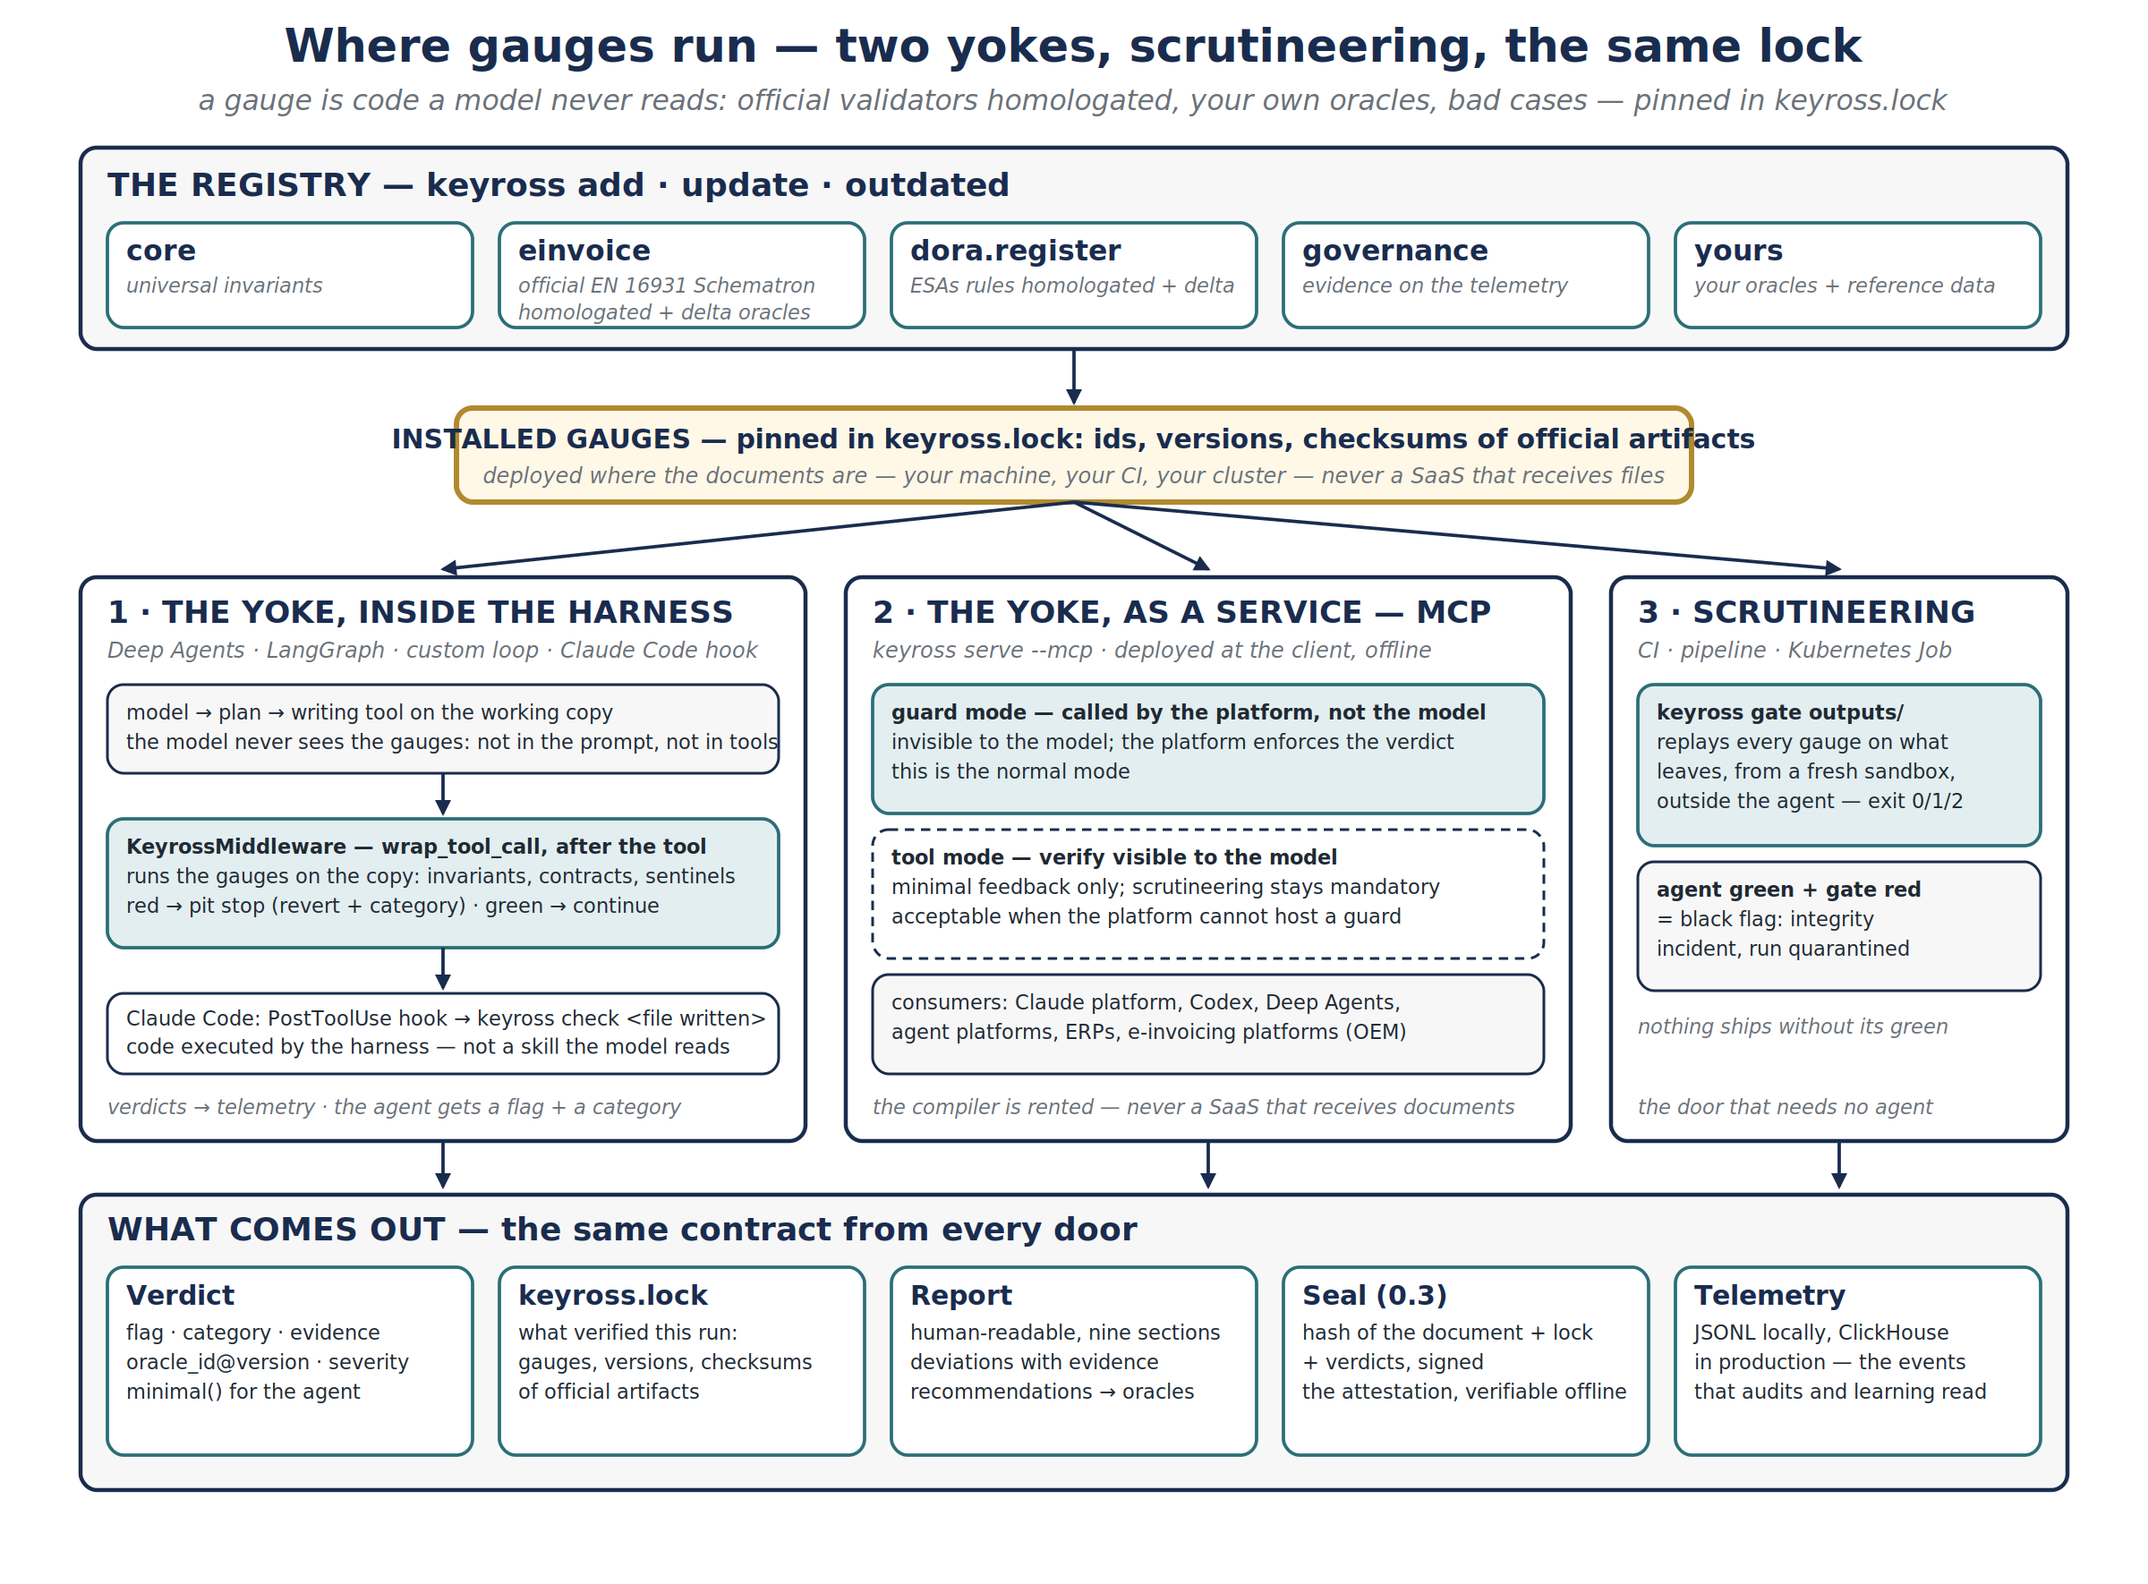
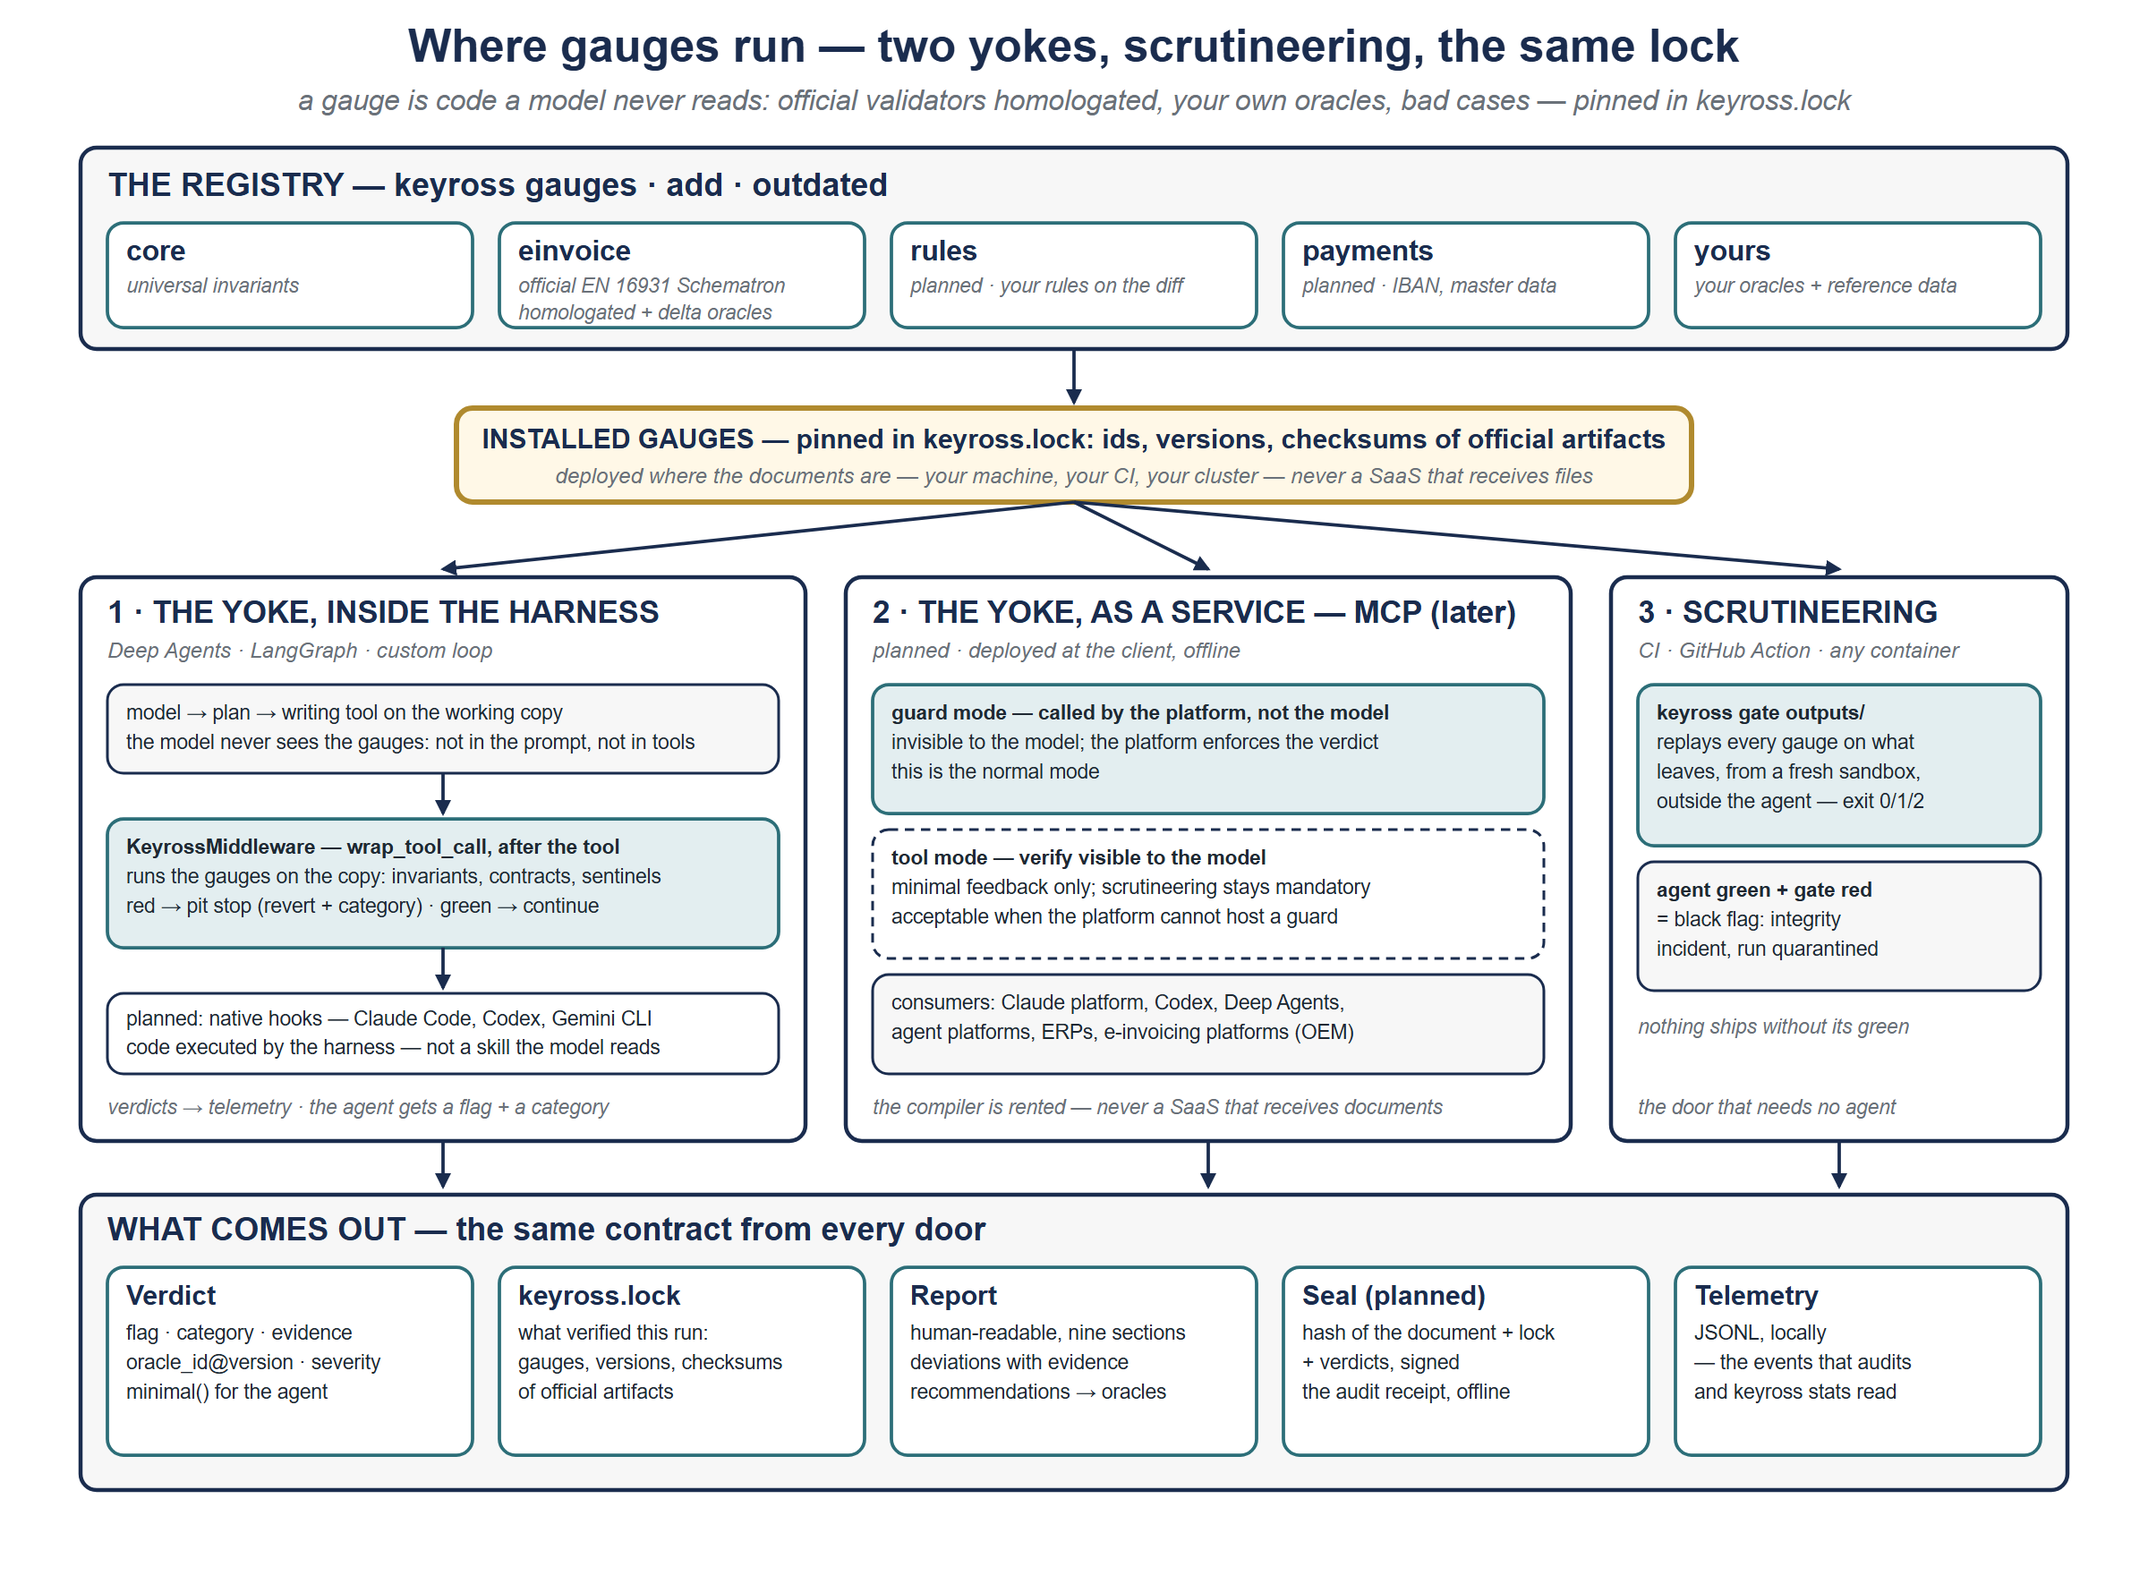
docs: what is not built says so — the diagram, the specs, the CLI messages
The public roadmap is the README's; everything else now agrees with it.
ARCHITECTURE.md and docs/architecture.svg (PNG re-rendered, 2400 x 1770):
the registry lists core, einvoice and the planned rules and payments; the
native hooks (Claude Code, Codex CLI, Gemini CLI) are planned; the MCP door
is later; the gate runs in CI, the GitHub Action or any container; the seal
is the planned audit receipt; the telemetry is JSONL, locally. The gauge
and lock specs mark signing and the seal planned; the yoke README marks the
hooks planned and the MCP server later.

`keyross yoke claude-code` and `keyross yoke mcp` print what is planned and
what works today (the gate in CI, the yoke for Deep Agents / LangChain);
`keyross add` on a planned package says copying from this repository's
index arrives in 0.2.

diff --git a/src/keyross/cli.py b/src/keyross/cli.py
@@ -172,7 +172,7 @@ def cmd_add(args: argparse.Namespace) -> int:
         print(f"unknown gauge: {name} — see `keyross gauges`"); return 1
     src = idx[name]["source"]
     if not src.startswith("builtin:"):
-        print(f"{name}: source {src} — installing from git arrives in 0.3; the gauge is {idx[name].get('status', 'planned')}"); return 1
+        print(f"{name}: source {src} — copying packages from this repository's index arrives in 0.2; the gauge is {idx[name].get('status', 'planned')}"); return 1
     cfg = _load_config()
     if name in cfg.get("gauges", []):
         print(f"{name} already in keyross.yaml"); return 0
@@ -195,14 +195,17 @@ def cmd_outdated(args: argparse.Namespace) -> int:
 
 
 def cmd_yoke(args: argparse.Namespace) -> int:
-    """The yoke: couple an agent to its gauges (0.2: prints the integration recipe for the chosen harness)."""
+    """The yoke: couple an agent to its gauges — prints the integration recipe for the chosen harness."""
     recipes = {
         "deepagents": ("# pip install 'keyross[yoke]'\nfrom keyross.yoke import Yoke\nfrom keyross.telemetry import JsonlTelemetry\n"
                        "agent = create_deep_agent(..., middleware=[Yoke(gauge=\"einvoice\", telemetry=JsonlTelemetry())])\n"
                        "# another backend than the default StateBackend? pass the same one: Yoke(..., backend=backend)\n"
                        "# then: keyross stats   (first-pass rate)"),
-        "claude-code": "# .claude/settings.json → hooks.PostToolUse: on Write|Edit run `keyross check \"$FILE\" --json`\n# code executed by the harness — not a skill the model reads",
-        "mcp": "keyross serve --mcp --mode guard   # 0.5 — called by the platform; --mode tool exposes verify with minimal feedback",
+        "claude-code": ("# planned: a Claude Code hook that runs the gauges on what the session wrote and returns the rule ids —\n"
+                        "# code executed by the harness, not a skill the model reads\n"
+                        "# today: keyross gate <folder> in CI (integrations/github-action), or the yoke for Deep Agents / LangChain"),
+        "mcp": ("# later: an MCP server — guard mode (called by the platform) or tool mode (verify, minimal feedback)\n"
+                "# today: keyross gate <folder> in CI, or the yoke for Deep Agents / LangChain"),
     }
     if args.harness not in recipes:
         print(f"unknown harness: {args.harness} — one of {', '.join(recipes)}"); return 1

diff --git a/src/keyross/telemetry/__init__.py b/src/keyross/telemetry/__init__.py
@@ -1,4 +1,4 @@
-"""Telemetry: the events of every run — decisions, verdicts, sealed runs. JSONL locally; ClickHouse in production."""
+"""Telemetry: the events of every run — decisions, verdicts. JSONL, locally."""
 from __future__ import annotations
 
 import json

diff --git a/docs/ARCHITECTURE.md b/docs/ARCHITECTURE.md
@@ -2,18 +2,18 @@
 
 ![Full architecture: registry → installed gauges → three doors → outputs](architecture.png)
 
-**The registry** (`keyross gauges · add · outdated`; `update` in 0.3) holds the gauges: `core`, `einvoice` (the official CEN EN 16931 artefacts, run unmodified; delta oracles in 0.2), `dora.register`, `governance`, and yours. **Installed gauges** are pinned in `keyross.lock` — ids, versions, checksums of the official artifacts — and deployed where the documents are: your machine, your CI, your cluster. Never a SaaS that receives files.
+**The registry** (`keyross gauges · add · outdated`) holds the gauges: `core`, `einvoice` (the official CEN EN 16931 artefacts, run unmodified, and delta oracles against the order), the planned packages (`rules`, `payments`), and yours. **Installed gauges** are pinned in `keyross.lock` — ids, versions, checksums of the official artifacts — and deployed where the documents are: your machine, your CI, your cluster. Never a SaaS that receives files.
 
 ## Three doors — two yokes and scrutineering
 
 ![One run: the agent writes, the compiler runs the gauges, red flag → pit stop, green → scrutineering ships](loop.gif)
 
-1. **The yoke, inside the harness.** The model plans and writes on the working copy without ever seeing the gauges — not in the prompt, not in the tool list. `Yoke` (alias `KeyrossMiddleware`; `wrap_tool_call`, around the writing tool) runs the gauges on what was written: invariants, contracts, sentinels, official validators. Red → revert and minimal feedback (the categories — rule ids — only); green → continue. Shipped for Deep Agents and LangChain agents. With Claude Code (0.5), a `PostToolUse` hook will run `keyross check` on the file the agent wrote: code executed by the harness, not a skill the model reads.
-2. **The yoke, as a service — MCP** *(planned, 0.5)*. `keyross serve --mcp`, deployed at the client, offline. *Guard mode*: called by the platform's control layer, invisible to the model — the normal mode. *Tool mode*: `verify` visible to the model, minimal feedback only, the gate stays mandatory — acceptable when the platform cannot host a guard. Consumers: the Claude platform, Codex, Deep Agents, agent platforms, ERPs, e-invoicing platforms (OEM).
-3. **Scrutineering — the gate.** `keyross gate outputs/` in CI, in a pipeline or as a Kubernetes Job replays every gauge on what leaves, outside the agent — exit 0 / 1 / 2. Agent green and gate red is an integrity incident: the run is quarantined. The door that needs no agent.
+1. **The yoke, inside the harness.** The model plans and writes on the working copy without ever seeing the gauges — not in the prompt, not in the tool list. `Yoke` (alias `KeyrossMiddleware`; `wrap_tool_call`, around the writing tool) runs the gauges on what was written: invariants, contracts, sentinels, official validators. Red → revert and minimal feedback (the categories — rule ids — only); green → continue. Shipped for Deep Agents and LangChain agents. Native hooks for Claude Code, Codex CLI and Gemini CLI are planned: code executed by the harness, not a skill the model reads.
+2. **The yoke, as a service — MCP** *(planned, later)*. `keyross serve --mcp`, deployed at the client, offline. *Guard mode*: called by the platform's control layer, invisible to the model — the normal mode. *Tool mode*: `verify` visible to the model, minimal feedback only, the gate stays mandatory — acceptable when the platform cannot host a guard. Consumers: the Claude platform, Codex, Deep Agents, agent platforms, ERPs, e-invoicing platforms (OEM).
+3. **Scrutineering — the gate.** `keyross gate outputs/` in CI (the [GitHub Action](../integrations/github-action/README.md)), in a pipeline or in any container replays every gauge on what leaves, outside the agent — exit 0 / 1 / 2. Agent green and gate red is an integrity incident: the run is quarantined. The door that needs no agent.
 
 ## What comes out — the same contract from every door
 
-The **verdict** (status, category, evidence, `oracle_id@version`, severity; `minimal()` for the agent) · **keyross.lock** (what verified this run: gauges, versions, checksums of official artifacts) · the **report** (human-readable: scope, verifiers, deviations with evidence, integrity, recommendations that name the oracle that will measure them) · the **seal** (0.3: hash of the document + lock + verdicts, signed — the attestation, verifiable offline) · the **telemetry** (JSONL locally, ClickHouse in production — the events that audits and learning read).
+The **verdict** (status, category, evidence, `oracle_id@version`, severity; `minimal()` for the agent) · **keyross.lock** (what verified this run: gauges, versions, checksums of official artifacts) · the **report** (human-readable: scope, verifiers, deviations with evidence, integrity, recommendations that name the oracle that will measure them) · the **seal** — the audit receipt (planned: hash of the document + lock + verdicts, signed, verifiable offline) · the **telemetry** (JSONL — the events that audits and `keyross stats` read).
 
 Formats: [spec/verdict.md](spec/verdict.md) · [spec/lock.md](spec/lock.md) · [spec/gauge.md](spec/gauge.md) · adapters: [../src/keyross/oracles/adapter.py](../src/keyross/oracles/adapter.py) · yoke: [../src/keyross/yoke/README.md](../src/keyross/yoke/README.md).

diff --git a/CHANGELOG.md b/CHANGELOG.md
@@ -2,6 +2,7 @@
 
 ## Unreleased
 - planned for 0.1.2 (3 October 2026), a release of the front page, with no new gauge: a README whose first screen says what Keyross does; the repository's description and topics; one public roadmap in the README, GAUGES.md and the gauge index; the stubs moved (`action/` becomes `integrations/github-action/`, a composite action that runs `keyross gate`; `demo-k8s/` becomes `examples/k8s/`, marked planned); `docs/audit-trail.md`; GitHub Discussions with a "Wanted verifier" template
+- docs and CLI: what is not built says so — ARCHITECTURE.md, the architecture diagram (PNG re-rendered), the gauge and lock specs, the yoke README and the messages of `keyross yoke claude-code`, `keyross yoke mcp` and `keyross add` mark the native hooks (Claude Code, Codex CLI, Gemini CLI) planned, the MCP server later, the seal planned (the audit receipt), signed gauges planned; `keyross add` copies packages from this repository's index in 0.2; the telemetry is JSONL, locally
 - community: GitHub Discussions open; a "Wanted verifier" form (`.github/DISCUSSION_TEMPLATE/wanted-verifier.yml`): the document, what the agent got wrong, where the truth lives, the checks, who would build it
 - docs: the stack diagram, "Where Keyross fits in your agent stack" (`docs/assets/keyross_stack.svg`, PNG 1280 × 720 and 1200 × 627): models, agents, Keyross, the world; the verifiers marked shipped (`einvoice`) or planned (`rules`, `comments`, `pr`, `expense`, `payments`); the audit receipt marked planned
 - docs: GAUGES.md follows the public roadmap — on the shelf `core` and `einvoice`, planned `rules` and `payments` (the same list as the registry index); where the gauges plug in today (gate, GitHub Action, the yoke) and what is planned (pre-commit, native CLI hooks, an MCP server later); the contribution ideas corrected (`einvoice.delta.order_match` shipped; `einvoice.dates.ordered` instead of a `core` oracle on tables that carry no dates)

diff --git a/src/keyross/yoke/README.md b/src/keyross/yoke/README.md
@@ -5,8 +5,8 @@ A yoke attaches a harness to Keyross, the way a wheel alignment makes two wheels
 | Yoke | Harness | How | Status |
 |---|---|---|---|
 | `yoke/deepagents.py` | Deep Agents / LangChain 1.x (`wrap_tool_call`, `awrap_tool_call`) | `Yoke(gauge="einvoice")` (`KeyrossMiddleware` alias) — reads the written document back through the agent's backend, runs the gauges, restores it on red | shipped — `pip install 'keyross[yoke]'` |
-| Claude Code hook | Claude Code (`PostToolUse`) | `keyross check "$FILE" --json` on every file the agent writes — code executed by the harness, not a skill | 0.5 |
-| MCP server | any platform | `keyross serve --mcp` — guard mode (called by the platform, invisible to the model) or tool mode (minimal feedback, scrutineering mandatory) | 0.5 |
+| Native hooks | Claude Code, Codex CLI, Gemini CLI | a hook runs the gauges on what the session wrote and returns the rule ids — code executed by the harness, not a skill | planned |
+| MCP server | any platform | guard mode (called by the platform, invisible to the model) or tool mode (minimal feedback, scrutineering mandatory) | later |
 
 `keyross yoke <harness>` prints the recipe. The yoke assumes the harness has its own limiters (budgets, protected columns, deletion cap): the yoke measures, it does not bound.
 

diff --git a/docs/spec/lock.md b/docs/spec/lock.md
@@ -3,4 +3,4 @@
 `keyross lock` writes, for every loaded oracle: `version`, `fingerprint` (short SHA-1 of the source code), `severity`, `kind`; and, for every installed gauge, its version and the checksums of the official artifacts its adapters execute.
 `keyross lock --check` returns the differences: oracle changed, missing from the lock, or in the lock but not loaded. Empty = pinning respected.
 
-A run must record the lock that verified it: it is the answer to "what verified this run?". The **seal** (0.3) freezes it with the verdicts and the document's hash, signed — the attestation an auditor verifies offline.
+A run must record the lock that verified it: it is the answer to "what verified this run?". The **seal** (planned) will freeze it with the verdicts and the document's hash, signed — the audit receipt an auditor verifies offline.

diff --git a/docs/spec/gauge.md b/docs/spec/gauge.md
@@ -46,7 +46,7 @@ oracles:                             # declared, so the lock can pin them before
   - { id: einvoice.delta.supplier_reference, severity: soft, version: 1 }
 regulatory:                          # when the rules apply — part of the package
   - { standard: "EN 16931", revision: "2017+A1", effective: "2026-09-01", scope: "FR B2B reception" }
-signature: sigstore                  # the gauge is signed; keyross verifies before installing (0.4)
+signature: sigstore                  # planned: the gauge is signed; keyross verifies before installing
 ```
 
 ## Commands
